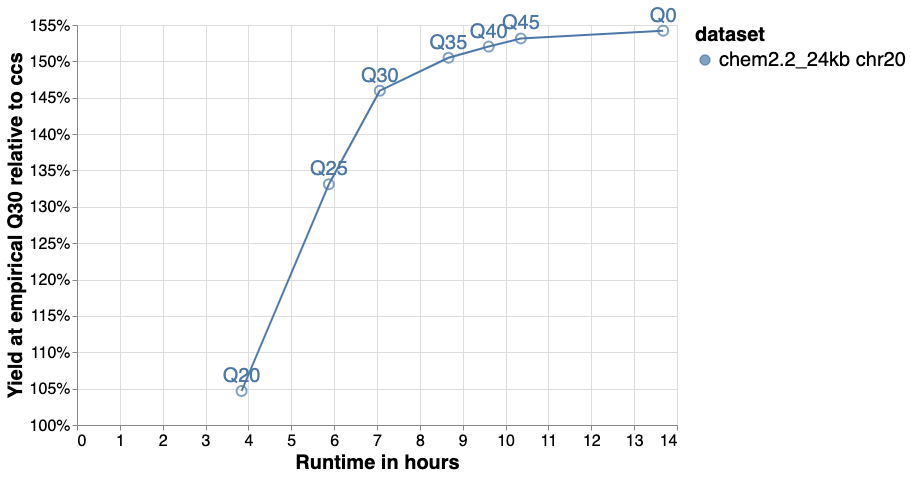
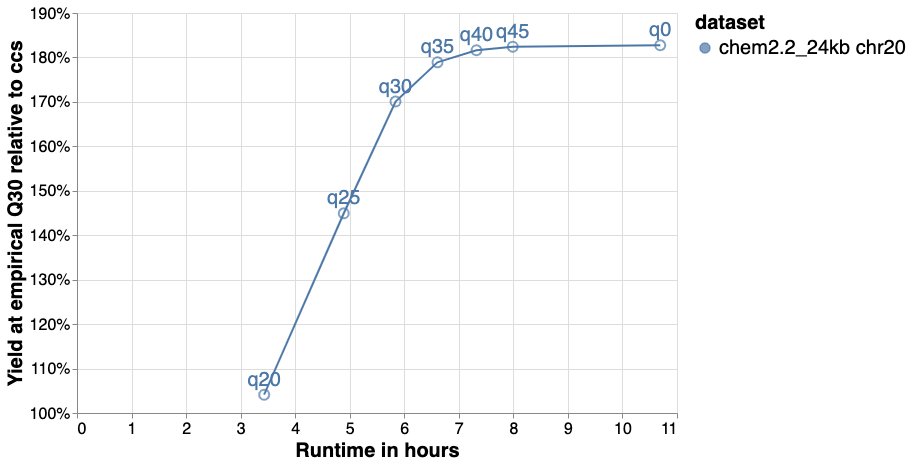
Update Yield metrics page for v1.0.
PiperOrigin-RevId: 478109150

diff --git a/docs/yield_metrics.md b/docs/yield_metrics.md
@@ -3,7 +3,7 @@
 ## We evaluate on 3 different datasets
 
 For each PacBio dataset (Movie ID), we compared yield at Q30 for ccs (baseline),
-DeepConsensus v0.2, and DeepConsensus v0.3.
+and v0.2, v0.3, and v1.0 of DeepConsensus.
 
 Movie ID             | Sample | Chemistry | Mean insert size
 -------------------- | ------ | --------- | ----------------
@@ -13,7 +13,7 @@ m64014_200920_132517 | HG002  | 2.2       | 24 kb
 
 ## Yield versus runtime
 
-![v0.3 runtime versus yield over ccs](images/runtime_yield_v0.3.png)
+![v1.0 runtime versus yield over ccs](images/runtime_yield.png)
 <table border="1" class="dataframe">
   <thead>
     <tr style="text-align: right;">
@@ -33,46 +33,46 @@ m64014_200920_132517 | HG002  | 2.2       | 24 kb
   </thead>
   <tbody>
     <tr>
-      <td>v0.3</td>
+      <td>v1.0</td>
       <td>m64011_181218_235052</td>
       <td>chem1_11kb</td>
       <td>1,393,202</td>
-      <td>1,533,357</td>
-      <td>16.86 Gb</td>
-      <td>108.74%</td>
-      <td>11.16 Gb</td>
-      <td>121.78%</td>
-      <td>4.06 Gb</td>
-      <td>167.33%</td>
-      <td>277.68</td>
+      <td>1,516,705</td>
+      <td>17.03 Gb</td>
+      <td>109.85%</td>
+      <td>12.17 Gb</td>
+      <td>132.79%</td>
+      <td>4.93 Gb</td>
+      <td>203.01%</td>
+      <td>251.04</td>
     </tr>
     <tr>
-      <td>v0.3</td>
+      <td>v1.0</td>
       <td>m64008_201124_002822</td>
       <td>chem2.2_15kb</td>
       <td>2,689,147</td>
-      <td>2,864,908</td>
-      <td>42.41 Gb</td>
-      <td>106.09%</td>
-      <td>30.41 Gb</td>
-      <td>115.70%</td>
-      <td>7.54 Gb</td>
-      <td>191.51%</td>
-      <td>683.97</td>
+      <td>2,851,015</td>
+      <td>42.80 Gb</td>
+      <td>107.06%</td>
+      <td>32.85 Gb</td>
+      <td>124.98%</td>
+      <td>9.33 Gb</td>
+      <td>237.00%</td>
+      <td>618.68</td>
     </tr>
     <tr>
-      <td>v0.3</td>
+      <td>v1.0</td>
       <td>m64014_200920_132517</td>
       <td>chem2.2_24kb</td>
       <td>1,919,192</td>
-      <td>2,064,266</td>
-      <td>48.99 Gb</td>
-      <td>107.02%</td>
-      <td>27.64 Gb</td>
-      <td>149.24%</td>
-      <td>1.60 Gb</td>
-      <td>462.97%</td>
-      <td>925.01</td>
+      <td>2,048,905</td>
+      <td>49.33 Gb</td>
+      <td>107.77%</td>
+      <td>32.55 Gb</td>
+      <td>175.76%</td>
+      <td>2.94 Gb</td>
+      <td>854.15%</td>
+      <td>796.88</td>
     </tr>
   </tbody>
 </table>
@@ -99,13 +99,13 @@ what we recommend. For more information on compute setups, see the
 
 ## Runtime-yield tradeoffs with `--skip_windows_above`
 
-The `--skip_windows_above` option (new in v0.3) allows DeepConsensus to skip
-windows whose average CCS base qualities are already above a certain quality
-threshold. The windows that are skipped just adopt the CCS sequence without
-correction. This saves runtime, but there is a yield tradeoff, shown in this
-chart for m64014_200920_132517-chr20:
+The `--skip_windows_above` option (introduced in v0.3) allows DeepConsensus to
+skip windows whose average CCS base qualities are already above a certain
+quality threshold. The windows that are skipped just adopt the CCS sequence
+without correction. This saves runtime, but there is a yield tradeoff, shown in
+this chart for m64014_200920_132517-chr20:
 
 ![runtime/yield tradeoff of --skip_windows_above](images/skip_windows_above_tradeoff.png).
 
-The default in v0.3 is Q45, but you can adjust this level using
+The default in v1.0 is Q45, but you can adjust this level using
 `--skip_windows_above`.
